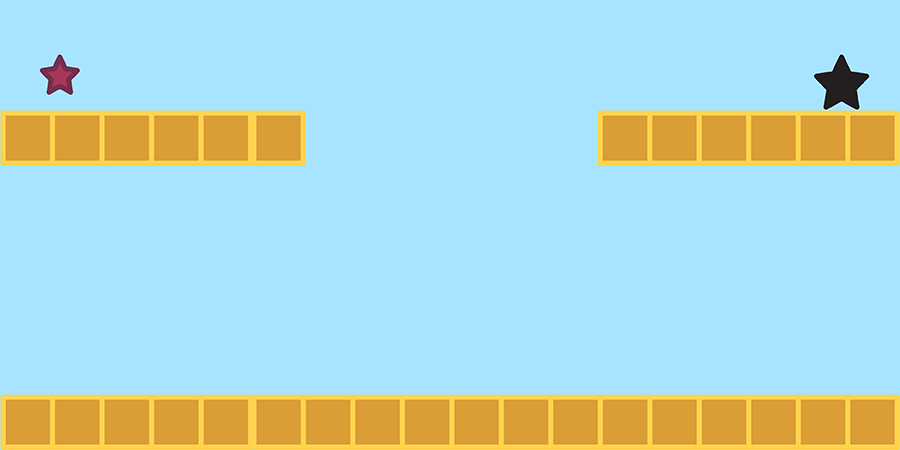
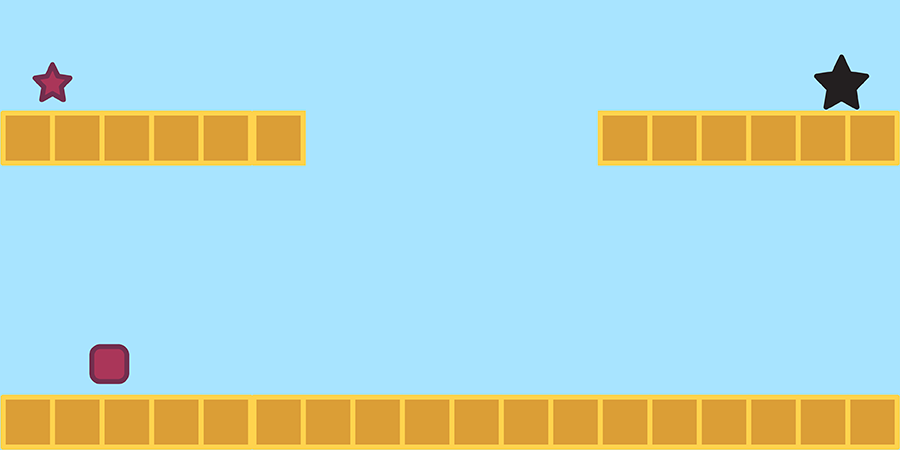
map 2 added

Changed region(s): [[0.0933, 0.7467, 0.1556, 0.8711], [0.0311, 0.1244, 0.0933, 0.2489]]

diff --git a/game.html b/game.html
@@ -8,8 +8,8 @@
 </head>
 <body>
   <h3>A, D or Arrow keys to move, W or space to jump</h3>
-  <canvas id="canvas" style="background:url('assets/maps/images/3.png') no-repeat;"></canvas>
-  <script src="assets/maps/js/3.js"></script>
+  <canvas id="canvas" style="background:url('assets/maps/images/2.png') no-repeat;"></canvas>
+  <script src="assets/maps/js/2.js"></script>
   <script>
       Game.init(map, document.getElementById("canvas"));
 

diff --git a/assets/maps/js/3.js b/assets/maps/js/3.js
@@ -53,10 +53,18 @@ var map = {
 
   rewards: [
 
-    // star
+    // box
     {
-      x: 62,
-      y: 77,
+      x: 104,
+      y: 360,
+      width: 10,
+      height: 10,
+      profile: "star"
+    },
+         // star
+    {
+      x: 48,
+      y: 79,
       width: 10,
       height: 10,
       profile: "star"

diff --git a/assets/main.js b/assets/main.js
@@ -2,9 +2,9 @@
 
 var Game = {
 
-  hole_color: "transparent",
-  box_color: "transparent",
-  reward_color: "transparent",
+  hole_color: "blue",
+  box_color: "olive",
+  reward_color: "red",
 
   canvas: null,
   ctx: null,
